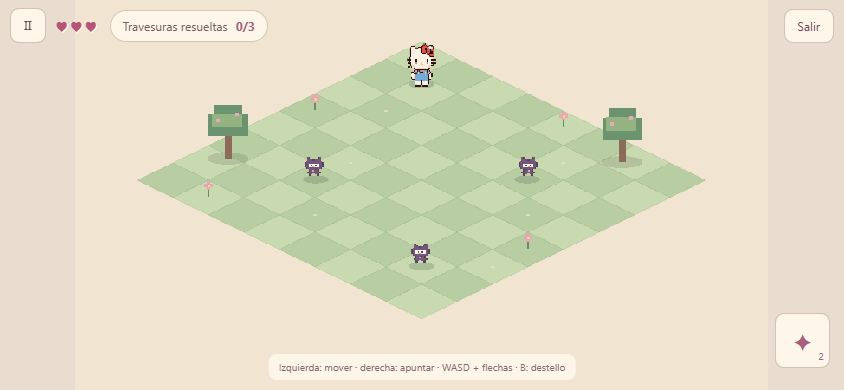
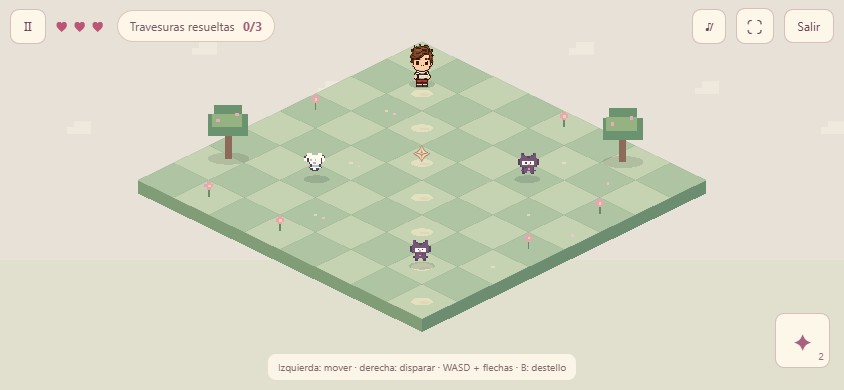
Document mobile experience and character assets

diff --git a/HISTORIA.md b/HISTORIA.md
@@ -9,6 +9,7 @@ La historia incluye **textos, preguntas y espacios para fotos provisionales**. N
 3. Escribe una descripción en `alt` (para lectores de pantalla) y el pie en `caption`. Cambia el `title` y el `text` del recuerdo por tus propias palabras.
 4. Repite con las fotografías que quieras. El carrusel admite botones y deslizamiento táctil. Un array `photos:[]` no muestra galería. Si una imagen no carga se indica en su lugar.
 5. Edita la pregunta, sus respuestas, la carta final y su firma en el mismo archivo. La pregunta puede omitirse; las respuestas son opcionales y no determinan si la historia continúa.
+6. Cuando hayas sustituido todos los textos de muestra, cambia `CONTENT_IS_SAMPLE=true` por `CONTENT_IS_SAMPLE=false` en `src/story-content.ts` para ocultar el aviso de muestra. Los espacios sin foto seguirán identificándose.
 
 **Privacidad:** este repositorio es público. Una foto añadida al repositorio público queda accesible públicamente. Un sitio web público puede exponer sus archivos a quien tenga acceso a la dirección. No subas fotos personales hasta decidir dónde se alojarán y qué protección necesitas. No aparecer en buscadores no equivale a protección.
 
@@ -20,9 +21,9 @@ Se guarda en el navegador del dispositivo: capítulo actual y más avanzado, per
 
 ## Personajes chibi y perspectiva
 
-La historia usa sprites de **32 × 40 píxeles**. Kitty usa de forma predeterminada `public/sprites/kitty-reference-sheet.png`, una hoja nueva generada a partir de las cinco imágenes de referencia aportadas. Contiene frente, perfil derecho, espalda, parpadeo, dos pasos frontales, ataque frontal y daño. `src/kitty-reference.ts` recorta las celdas en memoria y las adapta a las texturas del juego; el PNG original se conserva intacto. La portada también usa esa hoja. Para perfil y espalda se reutilizan las poses base al caminar; todavía no tienen pasos específicos. Izquierda refleja el perfil derecho. El asset original mide 1774 × 887 y pesa aproximadamente 0,9 MB; conviene revisar el tiempo de carga en un iPhone real.
+La historia usa sprites de **32 × 40 píxeles**. Kitty utiliza `kitty-reference-sheet.png`, generada a partir de las cinco referencias aportadas, y `kitty-walk-sheet.png` para los pasos laterales y de espalda. Louis tiene sus hojas equivalentes `louis-reference-sheet.png` y `louis-walk-sheet.png`. Las hojas principales incluyen frente, perfil derecho, espalda, parpadeo, pasos frontales, ataque frontal y daño; las hojas de caminata incluyen cuatro pasos laterales y cuatro de espalda. Izquierda refleja el perfil derecho. `src/reference-characters.ts` recorta las celdas en memoria y libera las texturas grandes de Phaser; los PNG originales permanecen intactos. La portada usa las hojas principales como retratos. Cada PNG original mide 1774 × 887; conviene revisar el tiempo de carga en un iPhone real. Instrucciones de generación y archivos: [docs/ASSETS.md](docs/ASSETS.md).
 
-Louis y el respaldo de Kitty se dibujan por código en `src/chibi-art.ts`. Las plantillas editables `public/sprites/templates/chibi-kitty.png` y `chibi-louis.png` contienen esas versiones generadas por código, no una exportación de la hoja de referencia. Tienen 6 columnas × 8 filas, **192 × 320 píxeles** en total. Conserva transparencia, celdas alineadas y los pies en la misma posición.
+Los respaldos de Kitty y Louis se dibujan por código en `src/chibi-art.ts`. Las plantillas editables `public/sprites/templates/chibi-kitty.png` y `chibi-louis.png` contienen esas versiones generadas por código, no una exportación de las hojas de referencia. Tienen 6 columnas × 8 filas, **192 × 320 píxeles** en total. Conserva transparencia, celdas alineadas y los pies en la misma posición.
 
 | Fila, desde 0 | Fotogramas, de izquierda a derecha |
 | --- | --- |
@@ -35,13 +36,19 @@ Louis y el respaldo de Kitty se dibujan por código en `src/chibi-art.ts`. Las p
 | 6 | Recibir daño: solo se usa la primera celda |
 | 7 | Muerte: solo se usa la primera celda |
 
-Las filas 6 y 7 se repiten en las plantillas para facilitar el dibujo, pero se usa la primera celda. Actualmente izquierda se obtiene reflejando derecha, y las direcciones diagonales usan una de estas vistas; no hay ocho vistas dibujadas independientes. Mantén el anclaje de pies y dibuja la silueta completa dentro de cada celda.
+Las filas 6 y 7 se repiten en las plantillas para facilitar el dibujo, pero se usa la primera celda. Izquierda se obtiene reflejando derecha, y las direcciones diagonales usan una de estas vistas; no hay ocho vistas dibujadas independientes. Mantén el anclaje de pies y dibuja la silueta completa dentro de cada celda.
 
-Copia la plantilla a `public/sprites/chibi-kitty.png` o `chibi-louis.png`; edita la copia. En `src/characters.ts`, cambia `chibiSpriteSheet:null` por `chibiSpriteSheet:'./sprites/chibi-kitty.png'` o la ruta correspondiente a Louis. La hoja debe medir exactamente 192 × 320 y contener todas las poses. Una hoja personalizada tiene prioridad sobre la referencia predeterminada de Kitty. Si falta o tiene otro tamaño, la escena conserva el sprite generado por código. Una celda vacía no se detecta y hará invisible al personaje en esa pose. Los retratos de portada y tarjetas siguen mostrando la referencia de Kitty o el dibujo por código de Louis; cambiar una hoja personalizada no cambia esos retratos.
+Copia la plantilla a `public/sprites/chibi-kitty.png` o `chibi-louis.png`; edita la copia. En `src/characters.ts`, cambia `chibiSpriteSheet:null` por `chibiSpriteSheet:'./sprites/chibi-kitty.png'` o la ruta correspondiente a Louis. La hoja debe medir exactamente 192 × 320 y contener todas las poses. Una hoja personalizada tiene prioridad sobre la referencia predeterminada del personaje. Si falta o tiene otro tamaño, la escena conserva el sprite generado por código. Una celda vacía no se detecta y hará invisible al personaje en esa pose. Los retratos de portada y tarjetas siguen mostrando las hojas de referencia; cambiar una hoja personalizada no cambia esos retratos.
 
 `npm run sprites` regenera y **sobrescribe las cuatro plantillas**, no las copias fuera de `templates/`. Las plantillas clásicas de 16 × 20 y la aventura clásica siguen explicadas en `public/sprites/README.md` y `chupalo_alexitico.txt`.
 
 La sala proyecta coordenadas de un tablero 2D en forma de rombo (`src/isometric.ts`). La posición de los pies determina la profundidad de personajes, enemigos y árboles. Los árboles son decorativos y no bloquean el movimiento. `src/iso-game.ts` contiene los tres desafíos y `src/StoryGame.tsx` la capa de controles y pausa. El primer desafío recoge luces; el segundo resuelve tres enemigos; el tercero presenta un jefe.
+
+## Sonido y pantalla completa
+
+Las melodías son originales y sintetizadas en `src/audio.ts`. Se usan temas para la historia, el jardín, el combate y el final. El primer toque o clic desbloquea el audio; el botón de sonido aparece en la historia y en el juego. Se conserva la preferencia del navegador. Al volver de otra aplicación, continúa la partida o toca la pantalla para reanudarlo. Si el navegador bloquea el audio se muestra una indicación.
+
+El lienzo de juego ocupa el viewport disponible sin estirarse; los controles dejan espacio para notch y barras del sistema. ⛶ solicita pantalla completa si el navegador la admite. En Safari de iPhone la página no puede obligar a ocultar toda la interfaz del navegador: el botón explica cómo añadirla a pantalla de inicio y abrirla como app. La barra de estado del sistema puede permanecer visible. Véanse [Fullscreen API en MDN](https://developer.mozilla.org/en-US/docs/Web/API/Fullscreen_API) y [seguimiento de WebKit para iPhone](https://bugs.webkit.org/show_bug.cgi?id=206854).
 
 ## Firebase Hosting: preparación, no publicación
 

diff --git a/VALIDACION.md b/VALIDACION.md
@@ -1,27 +1,26 @@
-# Validación · historia chibi/isométrica 1.3
+# Validación · versión 1.4
 
-Base: `2eabfe19517a776785b5eed30e7d676b204ca071` en `lugal3/valeteamo`. Trabajo en la rama `demo/historia-cumpleanos-chibi`. La validación histórica de la versión 1.2 se conserva en `docs/VALIDACION-1.2.md`.
+Base de trabajo: `e999d2757d62d61f9806d28aa327dae4b7fe9454`. La validación anterior se conserva en `docs/VALIDACION-1.3.md`.
 
-## Automatización y compilación
+## Código y pruebas reproducibles
 
-- `npm test`: lógica de la aventura clásica y nueva, mapa y controles, selección y ciclos de personajes clásicos, combates y objetos; progreso de historia, datos guardados dañados, navegación reversible, respuesta seleccionada, proyección isométrica, pausa, luces, proyectiles, jefe, victoria y derrota con renderizadores simulados.
-- `npm run sprites`: genera las cuatro plantillas PNG, incluidas las chibi de 192 × 320.
-- `npm run build`: verifica TypeScript y compila con Vite. Phaser se carga por separado al abrir un tramo. Vite puede advertir del tamaño del chunk del motor.
+- `npm test`: lógica de la aventura clásica y de la historia, recorrido, combate, decisiones de objetos, manto, pausa, muerte, reinicio, proyección, guardado corrupto y navegación. `tests/audio.cjs` comprueba creación, reproducción, silencio, temas, suspensión, reanudación y limpieza de la sesión de audio con un contexto simulado.
+- `npm run test:browser`: levanta Vite localmente y usa Playwright con Chromium o Edge sin ventana. Comprueba la historia, guardado tras recarga, manto y decisión, dos toques simultáneos, giro, pausa, pantalla completa, alternativa en navegadores sin esa API, animaciones y recuperación cuando el almacenamiento se bloquea.
+- El test de navegador mide una señal de audio distinta de cero con un `AnalyserNode` real en el navegador; verifica que un único `AudioContext` sobrevive entre historia y juego y que pausa, silencio y reactivación cambian su estado. Phaser no crea otro contexto de audio.
+- Para avanzar rápidamente durante el recorrido se inserta una referencia de prueba a la escena en la respuesta local de Vite y se posiciona el jugador en objetivos o se crean proyectiles. Esta instrumentación no existe en el código entregado. El control por dos dedos sí se simula mediante eventos táctiles del navegador, sin mover el personaje por código durante esa comprobación.
+- Se comprueban fotogramas diferentes de caminar de lado y de espaldas para Kitty y Louis y se verifica que las hojas grandes de Phaser se liberan tras generar las texturas pequeñas. Una hoja ausente mantiene los sprites de respaldo.
+- `npm run build`: TypeScript y Vite. Phaser se descarga por separado al entrar en juego. Vite informa del tamaño del chunk del motor; no impide la compilación.
 
-## Navegador de escritorio sin ventana
+Para ejecutar la prueba de navegador en otro equipo instala Chromium con `npx playwright install chromium`, o indica una ruta con la variable de entorno `BROWSER_EXECUTABLE_PATH`. En Windows se detecta Edge cuando está en la ruta habitual. Playwright es dependencia de desarrollo; no se incluye en la página compilada.
 
-Se usó Microsoft Edge headless y Playwright instalado fuera del repositorio. Se revisaron visualmente portada a 1440×900 y 390×844, primer recuerdo vertical, pregunta y dos desafíos a 844×390. Un recorrido automatizado pasó por todas las escenas, incluida la carta, y comprobó recarga y recuperación del capítulo. Para dirigir el recorrido a través de los niveles se expuso temporalmente la instancia de escena mediante interceptación de una respuesta de desarrollo; no existe ese acceso global en el código entregado. También se probó movimiento real con teclado.
+## Pantalla y dispositivos
 
-Una prueba independiente simuló pantalla táctil y dos dedos mediante el protocolo del navegador: movimiento y disparo simultáneos, liberación de los dos toques, pausa al iniciar en vertical, giro y continuación. Se corrigió el ajuste del lienzo al girar y se repitió la prueba. Se verificó además el aviso de almacenamiento bloqueado y que la historia sigue accesible.
+En navegador de escritorio se comprobaron portada, recuerdos, pregunta, juego y diálogo; el canvas ocupa el viewport y se ajusta al girar sin deformar la sala. El modo fullscreen nativo se probó en Edge headless. Se simuló la falta de soporte para comprobar las instrucciones de pantalla de inicio y el cierre accesible del diálogo.
 
-Se configuraron temporalmente hojas chibi mediante interceptación de la configuración: un PNG válido de 192 × 320 se cargó; una imagen de otro tamaño y una inexistente conservaron el arte generado. No hubo errores JavaScript en el recorrido principal. Estos controles se hicieron en escritorio emulado, no en Safari físico.
+**No se ha probado en iPhone físico ni en Safari real.** No se puede afirmar que desaparezca la barra superior de Safari; el botón ofrece Añadir a pantalla de inicio cuando la API no está disponible. Los controles usan áreas seguras para el notch y el fondo alcanza la zona disponible. La escucha física y el comportamiento de audio en iPhone siguen pendientes.
 
-La hoja de Kitty generada a partir de las referencias aportadas se cargó en Phaser: se verificaron texturas distintas para reposo, caminar, perfil y espalda, además de la pose de daño. Se comprobó que, si el PNG no está disponible, el personaje generado por código permite continuar. El asset tiene transparencia real y la escena lo adapta a celdas de 32 × 40 en memoria.
+## Contenido y publicación
 
-## Pendiente y límites
+Los recuerdos, las fotos, la pregunta y la carta incluyen contenido provisional identificado como muestra; el usuario debe proporcionar y revisar las fotografías y palabras finales. El progreso se guarda por capítulo en el navegador; recargar durante un desafío lo reinicia. No hay sincronización ni garantía de persistencia si se borran los datos del navegador.
 
-- Probar en iPhone físico y Safari: tacto real, notch, barras dinámicas, audio, recarga y pantalla de inicio; no se ha hecho. Tampoco se ha evaluado el audio mediante escucha física.
-- Revisar con el autor el estilo de personajes, la perspectiva y el ritmo de cada desafío. Los sprites chibi son una primera versión; direcciones diagonales reutilizan las vistas existentes.
-- Fotos, textos, preguntas y carta son marcadores editables, sin contenido personal. La sustitución y su privacidad dependen del material que aporte el usuario.
-- El avance se guarda por capítulo en el navegador; recargar durante un nivel lo reinicia. Sin sincronización entre dispositivos ni garantía de conservación de datos del navegador.
-- `firebase.json` prepara una posible publicación. No se ha vinculado una cuenta de Firebase, desplegado un sitio ni verificado una URL pública de prueba.
+Las imágenes de referencia de los personajes y sus indicaciones se documentan en `docs/ASSETS.md`. El archivo `firebase.json` prepara Hosting, pero no se ha vinculado una cuenta ni se ha publicado un sitio. No se agregaron fotos personales ni secretos.

diff --git a/README.md b/README.md
@@ -1,8 +1,8 @@
 # El jardín de los deseos · historia de cumpleaños
 
-Prototipo 1.3 · React, TypeScript, Vite y Phaser 3. Una aventura de cumpleaños para Valentina que intercala recuerdos editables, preguntas opcionales y tres desafíos breves. El modo anterior de seis salas sigue disponible desde «Jugar la aventura clásica» en la portada.
+Versión 1.4 · React, TypeScript, Vite y Phaser 3. Una aventura de cumpleaños para Valentina que intercala recuerdos editables, preguntas opcionales y tres desafíos breves. El modo anterior de seis salas sigue disponible desde «Jugar la aventura clásica» en la portada.
 
-**Las fotografías, preguntas y carta son marcadores provisionales.** No contienen recuerdos personales reales. Para reemplazarlos, sigue [HISTORIA.md](HISTORIA.md). La dirección de arte chibi/isométrica es una primera versión para revisar con el autor del regalo.
+**Las fotografías, preguntas y carta son contenido de muestra.** No contienen recuerdos personales reales. Para reemplazarlos, sigue [HISTORIA.md](HISTORIA.md); los textos de ejemplo se identifican como editables.
 
 ## Iniciar
 
@@ -22,9 +22,11 @@ Véase [PROBAR-IPHONE.md](PROBAR-IPHONE.md) para probar desde el teléfono en la
 
 ## Historia y controles
 
-La portada permite seleccionar Kitty o Louis y activar el sonido. El audio está silenciado inicialmente. La historia alterna una primera galería, un desafío de luces, una pregunta que se puede omitir, un desafío con enemigos, una segunda galería, un jefe y una carta. Las galerías admiten botones y deslizamiento táctil. Se puede volver a capítulos anteriores y volver a jugar niveles completados.
+La portada permite seleccionar Kitty o Louis y controlar el sonido. En una partida nueva, la música empieza tras el primer toque o clic; si se silenció previamente, se respeta esa preferencia. Hay controles de sonido y pantalla completa tanto en la historia como en los desafíos. La historia alterna una primera galería, un desafío de luces, una pregunta que se puede omitir, un desafío con enemigos, una segunda galería, un jefe y una carta. Las galerías admiten botones y deslizamiento táctil. Se puede volver a capítulos anteriores y volver a jugar niveles completados.
 
-Los desafíos se muestran en horizontal. El dedo izquierdo mueve; el derecho apunta/dispara en los niveles de combate. El botón ✦ usa un destello de área limitado. En escritorio: WASD mueve, flechas o ratón disparan, B o Espacio usan el destello y Esc pausa. El daño concede invulnerabilidad breve. Si se pierde, se puede reintentar el tramo.
+Los desafíos se muestran en horizontal. El dedo izquierdo mueve; el derecho apunta/dispara corazones en los niveles de combate. El botón ✦ usa un destello de área limitado. En escritorio: WASD mueve, flechas o ratón disparan, B o Espacio usan el destello y Esc pausa. El daño concede invulnerabilidad breve. El manto opcional muestra su descripción y permite recogerlo o dejarlo; bloquea un golpe. Si se pierde, se puede reintentar el tramo.
+
+El botón ⛶ activa la pantalla completa cuando el navegador lo permite. Safari en iPhone puede mantener la barra del navegador: «Compartir → Añadir a pantalla de inicio» permite abrir el juego como app con más espacio. La franja del sistema puede seguir visible. La página extiende su fondo hasta los bordes disponibles y respeta el notch y las áreas seguras.
 
 El avance por capítulo, las respuestas elegidas, el personaje y el sonido se guardan localmente en ese navegador. Una recarga durante un desafío lo reinicia desde el principio. El guardado no se sincroniza entre dispositivos y puede perderse al borrar datos del navegador; si el almacenamiento no está disponible se muestra un aviso. No se suben respuestas a un servidor.
 
@@ -35,7 +37,7 @@ El avance por capítulo, las respuestas elegidas, el personaje y el sonido se gu
 - `src/StoryApp.tsx` / `src/story.css`: historia, carrusel y presentación adaptable.
 - `src/story-progress.ts`: guardado local y navegación entre capítulos.
 - `src/StoryGame.tsx` / `src/iso-game.ts`: conexión con Phaser, pausa, controles, combate y desafíos.
-- `src/isometric.ts`: proyección del tablero 2D. `src/chibi-art.ts` y `src/kitty-reference.ts`: personajes de 32 × 40, referencia de Kitty y hojas PNG opcionales.
+- `src/isometric.ts`: proyección del tablero 2D. `src/chibi-art.ts` y `src/reference-characters.ts`: personajes de 32 × 40, referencias de Kitty y Louis y hojas PNG opcionales. [docs/ASSETS.md](docs/ASSETS.md) recoge sus instrucciones de generación.
 - `public/sprites/templates/`: plantillas editables chibi y clásicas. `npm run sprites` las regenera y sobrescribe; guarda tu dibujo en otra ruta.
 - [README-CLASICO.md](README-CLASICO.md): documentación de la versión anterior y sus mecánicas. [chupalo_alexitico.txt](chupalo_alexitico.txt) explica sus sprites clásicos de 16 × 20.
 
@@ -48,4 +50,4 @@ npm test
 npm run build
 ```
 
-La validación, incluida la distinción entre pruebas de escritorio y pruebas pendientes en un iPhone físico, está en [VALIDACION.md](VALIDACION.md).
+Para las pruebas de navegador, ejecuta `npx playwright install chromium` una vez y luego `npm run test:browser`. Si tienes Edge en la ruta habitual de Windows se usa automáticamente; también puedes definir `BROWSER_EXECUTABLE_PATH` con la ruta de un navegador Chromium. La validación, incluida la distinción entre pruebas de escritorio y pruebas pendientes en un iPhone físico, está en [VALIDACION.md](VALIDACION.md).

diff --git a/docs/ASSETS.md b/docs/ASSETS.md
@@ -1,0 +1,38 @@
+# Assets generados para la aventura
+
+Se utilizó la herramienta integrada de generación de imágenes de Codex, no una API ni CLI externa. Los PNG originales conservan transparencia y se cargan solo al necesitarse. Las referencias aportadas por el usuario guiaron el aspecto de Kitty; el Louis chibi se diseñó para compartir estilo, con ropa de rayas y pantalones rojos. No se incluyeron las imágenes originales del usuario en el repositorio.
+
+| Archivo | Contenido |
+| --- | --- |
+| `public/sprites/kitty-reference-sheet.png` | Kitty: reposo, perfil, espalda, parpadeo, pasos frontales, ataque y daño. Generado en la fase anterior a partir de las cinco referencias del usuario. |
+| `public/sprites/kitty-walk-sheet.png` | Cuatro pasos de perfil y cuatro pasos de espaldas para Kitty. |
+| `public/sprites/louis-reference-sheet.png` | Louis chibi: reposo, perfil, espalda, parpadeo, pasos frontales, ataque y daño. |
+| `public/sprites/louis-walk-sheet.png` | Cuatro pasos de perfil y cuatro pasos de espaldas para Louis. |
+
+Las hojas nuevas se adaptan a texturas de 32 × 40 en `src/reference-characters.ts` y luego se liberan las texturas grandes de Phaser. No se modifica el PNG original. Las imágenes de referencia se cargan para el personaje elegido; la portada carga sus retratos. Para diseñar tus propias hojas de 192 × 320 y reemplazar el arte integrado, consulta [HISTORIA.md](../HISTORIA.md).
+
+## Instrucciones empleadas en esta fase
+
+### Louis, hoja principal
+
+```text
+Create one 4-column by 2-row pixel-art sprite sheet for a playable chibi character inspired by Louis Tomlinson of One Direction. Use the supplied image solely as the style, scale, outline, color rendering and pose grid reference: the new character is a human male, NOT the white cat. Warm skin, expressive dark eyes, recognizable swept brown quiff, dark navy-and-cream striped short-sleeve shirt, red trousers and dark shoes, early 2010s look. Oversized head, compact body and friendly face, matching the cozy clean pixel game reference. Eight isolated full-body poses on a regular 4 by 2 grid, same size and feet baseline in each cell: first row front idle, right side, back, front blinking; second row two alternating walking poses, front attack with raised arm, hurt recoil. Clearly separate and consistently position all figures. Transparent background and transparent empty space, no checkerboard, no labels, no grid lines, no text or watermark; no extra characters, no extra accessories.
+```
+
+Referencia: hoja existente de Kitty (`kitty-reference-sheet.png`).
+
+### Kitty, extensión de caminata
+
+```text
+Using the supplied Hello Kitty pixel sprite sheet as the strict character and style reference, create a matching animation extension sprite sheet for a 2D isometric game. Same exact white cat, red bow on viewer's right, pink sleeves, blue overalls, yellow buttons, brown outlines, head and body size, palette and crisp pixel art. Transparent background. EXACTLY a regular 4-column by 2-row grid with one complete character in each equal cell, no labels or lines. TOP ROW: four sequential poses of walking while facing RIGHT in side view, showing alternating left/right feet and natural arm swing (contact, passing, opposite contact, passing). BOTTOM ROW: four sequential poses of walking AWAY from viewer in back view, again with alternating feet and arm swing. Keep the center and the feet baseline consistently aligned in every cell, ample transparent margin around each character. No characters facing camera, no checkerboard, no text, no background, no duplicates outside cells.
+```
+
+Referencia: hoja existente de Kitty (`kitty-reference-sheet.png`).
+
+### Louis, extensión de caminata
+
+```text
+Using the supplied Louis Tomlinson inspired pixel sprite sheet as strict style and character reference, create a matching animation extension sprite sheet for a cozy 2D isometric game. Same exact human male chibi, swept brown hair, navy and cream striped shirt, red trousers, dark shoes, brown outline, consistent scale, head proportions, colors and pixel rendering. Transparent background. EXACTLY a regular 4-column by 2-row grid with one complete character in each equal cell, no labels or lines. TOP ROW: four sequential poses of walking while facing RIGHT in side view, alternating feet with natural arm swing (contact, passing, opposite contact, passing). BOTTOM ROW: four sequential poses of walking AWAY from viewer in back view, alternating feet and arm swing. Keep center and feet baseline aligned in every cell, ample transparent margins. No characters facing camera, no checkerboard, no text, no background, no duplicates outside cells.
+```
+
+Referencia: hoja nueva de Louis (`louis-reference-sheet.png`).

diff --git a/docs/VALIDACION-1.3.md b/docs/VALIDACION-1.3.md
@@ -1,0 +1,27 @@
+# Validación · historia chibi/isométrica 1.3
+
+Base: `2eabfe19517a776785b5eed30e7d676b204ca071` en `lugal3/valeteamo`. Trabajo en la rama `demo/historia-cumpleanos-chibi`. La validación histórica de la versión 1.2 se conserva en `docs/VALIDACION-1.2.md`.
+
+## Automatización y compilación
+
+- `npm test`: lógica de la aventura clásica y nueva, mapa y controles, selección y ciclos de personajes clásicos, combates y objetos; progreso de historia, datos guardados dañados, navegación reversible, respuesta seleccionada, proyección isométrica, pausa, luces, proyectiles, jefe, victoria y derrota con renderizadores simulados.
+- `npm run sprites`: genera las cuatro plantillas PNG, incluidas las chibi de 192 × 320.
+- `npm run build`: verifica TypeScript y compila con Vite. Phaser se carga por separado al abrir un tramo. Vite puede advertir del tamaño del chunk del motor.
+
+## Navegador de escritorio sin ventana
+
+Se usó Microsoft Edge headless y Playwright instalado fuera del repositorio. Se revisaron visualmente portada a 1440×900 y 390×844, primer recuerdo vertical, pregunta y dos desafíos a 844×390. Un recorrido automatizado pasó por todas las escenas, incluida la carta, y comprobó recarga y recuperación del capítulo. Para dirigir el recorrido a través de los niveles se expuso temporalmente la instancia de escena mediante interceptación de una respuesta de desarrollo; no existe ese acceso global en el código entregado. También se probó movimiento real con teclado.
+
+Una prueba independiente simuló pantalla táctil y dos dedos mediante el protocolo del navegador: movimiento y disparo simultáneos, liberación de los dos toques, pausa al iniciar en vertical, giro y continuación. Se corrigió el ajuste del lienzo al girar y se repitió la prueba. Se verificó además el aviso de almacenamiento bloqueado y que la historia sigue accesible.
+
+Se configuraron temporalmente hojas chibi mediante interceptación de la configuración: un PNG válido de 192 × 320 se cargó; una imagen de otro tamaño y una inexistente conservaron el arte generado. No hubo errores JavaScript en el recorrido principal. Estos controles se hicieron en escritorio emulado, no en Safari físico.
+
+La hoja de Kitty generada a partir de las referencias aportadas se cargó en Phaser: se verificaron texturas distintas para reposo, caminar, perfil y espalda, además de la pose de daño. Se comprobó que, si el PNG no está disponible, el personaje generado por código permite continuar. El asset tiene transparencia real y la escena lo adapta a celdas de 32 × 40 en memoria.
+
+## Pendiente y límites
+
+- Probar en iPhone físico y Safari: tacto real, notch, barras dinámicas, audio, recarga y pantalla de inicio; no se ha hecho. Tampoco se ha evaluado el audio mediante escucha física.
+- Revisar con el autor el estilo de personajes, la perspectiva y el ritmo de cada desafío. Los sprites chibi son una primera versión; direcciones diagonales reutilizan las vistas existentes.
+- Fotos, textos, preguntas y carta son marcadores editables, sin contenido personal. La sustitución y su privacidad dependen del material que aporte el usuario.
+- El avance se guarda por capítulo en el navegador; recargar durante un nivel lo reinicia. Sin sincronización entre dispositivos ni garantía de conservación de datos del navegador.
+- `firebase.json` prepara una posible publicación. No se ha vinculado una cuenta de Firebase, desplegado un sitio ni verificado una URL pública de prueba.

diff --git a/PROBAR-IPHONE.md b/PROBAR-IPHONE.md
@@ -4,6 +4,7 @@
 2. En la carpeta del proyecto ejecuta `npm ci`, `npm run build` y `npm run preview -- --port 5173 --strictPort`.
 3. En el PC usa `ipconfig` para buscar la dirección IPv4 de la red Wi-Fi. En Safari del teléfono abre `http://IP-DEL-PC:5173/`. La IP puede cambiar; `localhost` en el teléfono apunta al teléfono, no al PC.
 4. La historia y las fotos están preparadas para vertical. Al iniciar un desafío gira a horizontal; al volver a él pulsa Continuar si aparece la pausa. Izquierda mueve y derecha apunta/dispara.
-5. Opcional: Safari → Compartir → Añadir a pantalla de inicio, si quieres abrirlo como app web. No es obligatorio y no garantiza uso sin conexión. Safari puede seguir mostrando sus barras en la pestaña normal.
+5. El botón ⛶ solicita pantalla completa cuando el navegador lo permite. En Safari de iPhone, usa Compartir → Añadir a pantalla de inicio y abre el icono para jugar como app con más espacio. No es obligatorio y no garantiza uso sin conexión. Safari y el sistema pueden mantener visible parte de su interfaz superior.
+6. La música empieza tras tocar la página si el sonido está activado. Usa el botón ♪ en la historia o dentro del juego para silenciar o volver a activar. Si no se escucha, toca de nuevo el botón y revisa el volumen del iPhone.
 
 Si llega un enlace por WhatsApp u otra app y el navegador interno da problemas, utiliza su opción para abrir en Safari. Firewall, aislamiento de la red Wi-Fi o un PC suspendido pueden impedir la conexión. No se ha comprobado esta versión en un iPhone físico.
